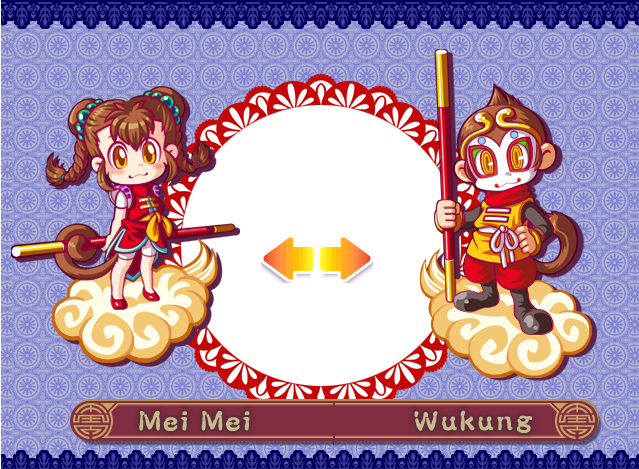
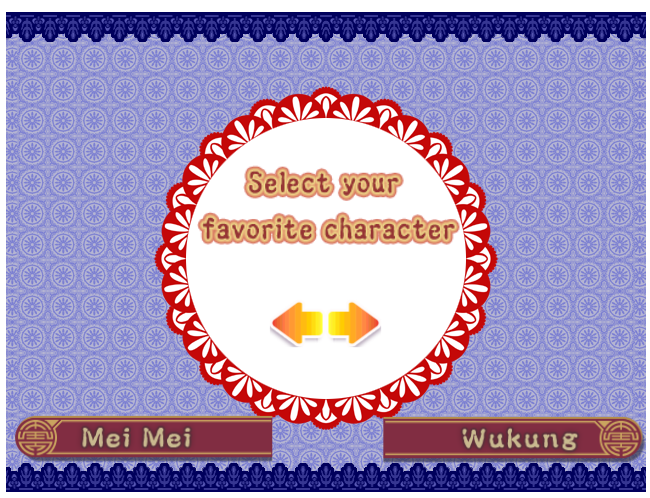
캐릭터 리소스 변경 및 선택 애니메이션
2015180036 장영진 커밋횟수 60회
캐릭터 리소스 변경 및 선택 애니메이션

diff --git a/Project/Character_select.py b/Project/Character_select.py
@@ -9,16 +9,29 @@ import GamePlay_screen2
 
 name ="Character_select"
 image = None
+MeiMei_R=None
+MeiMei_L=None
+Wukung_R=None
+Wukung_L=None
+change=0
 
 def enter():
-    global image
+    global image,MeiMei_R,MeiMei_L,Wukung_R,Wukung_L
     image = load_image('Resource\\character select.png')
+    MeiMei_R= load_image('Resource\\MeiMei_R.png')
+    MeiMei_L= load_image('Resource\\MeiMei_L.png')
+    Wukung_R= load_image('Resource\\Wukung_R.png')
+    Wukung_L= load_image('Resource\\Wukung_L.png')
     pass
 
 
 def exit():
-    global image
+    global image,MeiMei_R,MeiMei_L,Wukung_R,Wukung_L
     del (image)
+    del (MeiMei_R)
+    del (MeiMei_L)
+    del (Wukung_R)
+    del (Wukung_L)
     pass
 
 
@@ -27,6 +40,7 @@ def pause():
 
 
 def handle_events():
+    global change
     events = get_events()
     for event in events:
         if event.type == SDL_QUIT:
@@ -34,17 +48,33 @@ def handle_events():
         else:
             if (event.type, event.key) == (SDL_KEYDOWN, SDLK_ESCAPE):
                 game_framework.change_state(Main_Screen)
-            elif (event.type, event.key) == (SDL_KEYDOWN, SDLK_RIGHT):
-                game_framework.change_state(GamePlay_screen2)
             elif (event.type, event.key) == (SDL_KEYDOWN, SDLK_LEFT):
+                change=1
+            elif (event.type, event.key) == (SDL_KEYDOWN, SDLK_RIGHT):
+                change = 2
+            elif (event.type, event.key) == (SDL_KEYDOWN, SDLK_SPACE)and change==1:
                 game_framework.change_state(GamePlay_screen)
+
+            elif (event.type, event.key) == (SDL_KEYDOWN, SDLK_SPACE)and change==2:
+                game_framework.change_state(GamePlay_screen2)
 
     pass
 
 
 def draw():
+    global change
     clear_canvas()
-    image.clip_draw(0,0,1020,767,512, 382)
+    image.clip_draw(0,0,1100,812,512, 382)
+
+    if change==1:
+        MeiMei_R.clip_draw(0,0,230,300,100, 382)
+        Wukung_L.clip_draw(0, 0, 230, 300, 900, 382)
+    if change==2:
+        Wukung_R.clip_draw(0,0,230,300,900, 382)
+        MeiMei_L.clip_draw(0, 0, 230, 300, 100, 382)
+    if change==0:
+        Wukung_L.clip_draw(0, 0, 230, 300, 900, 382)
+        MeiMei_L.clip_draw(0, 0, 230, 300, 100, 382)
     update_canvas()
     pass
 
